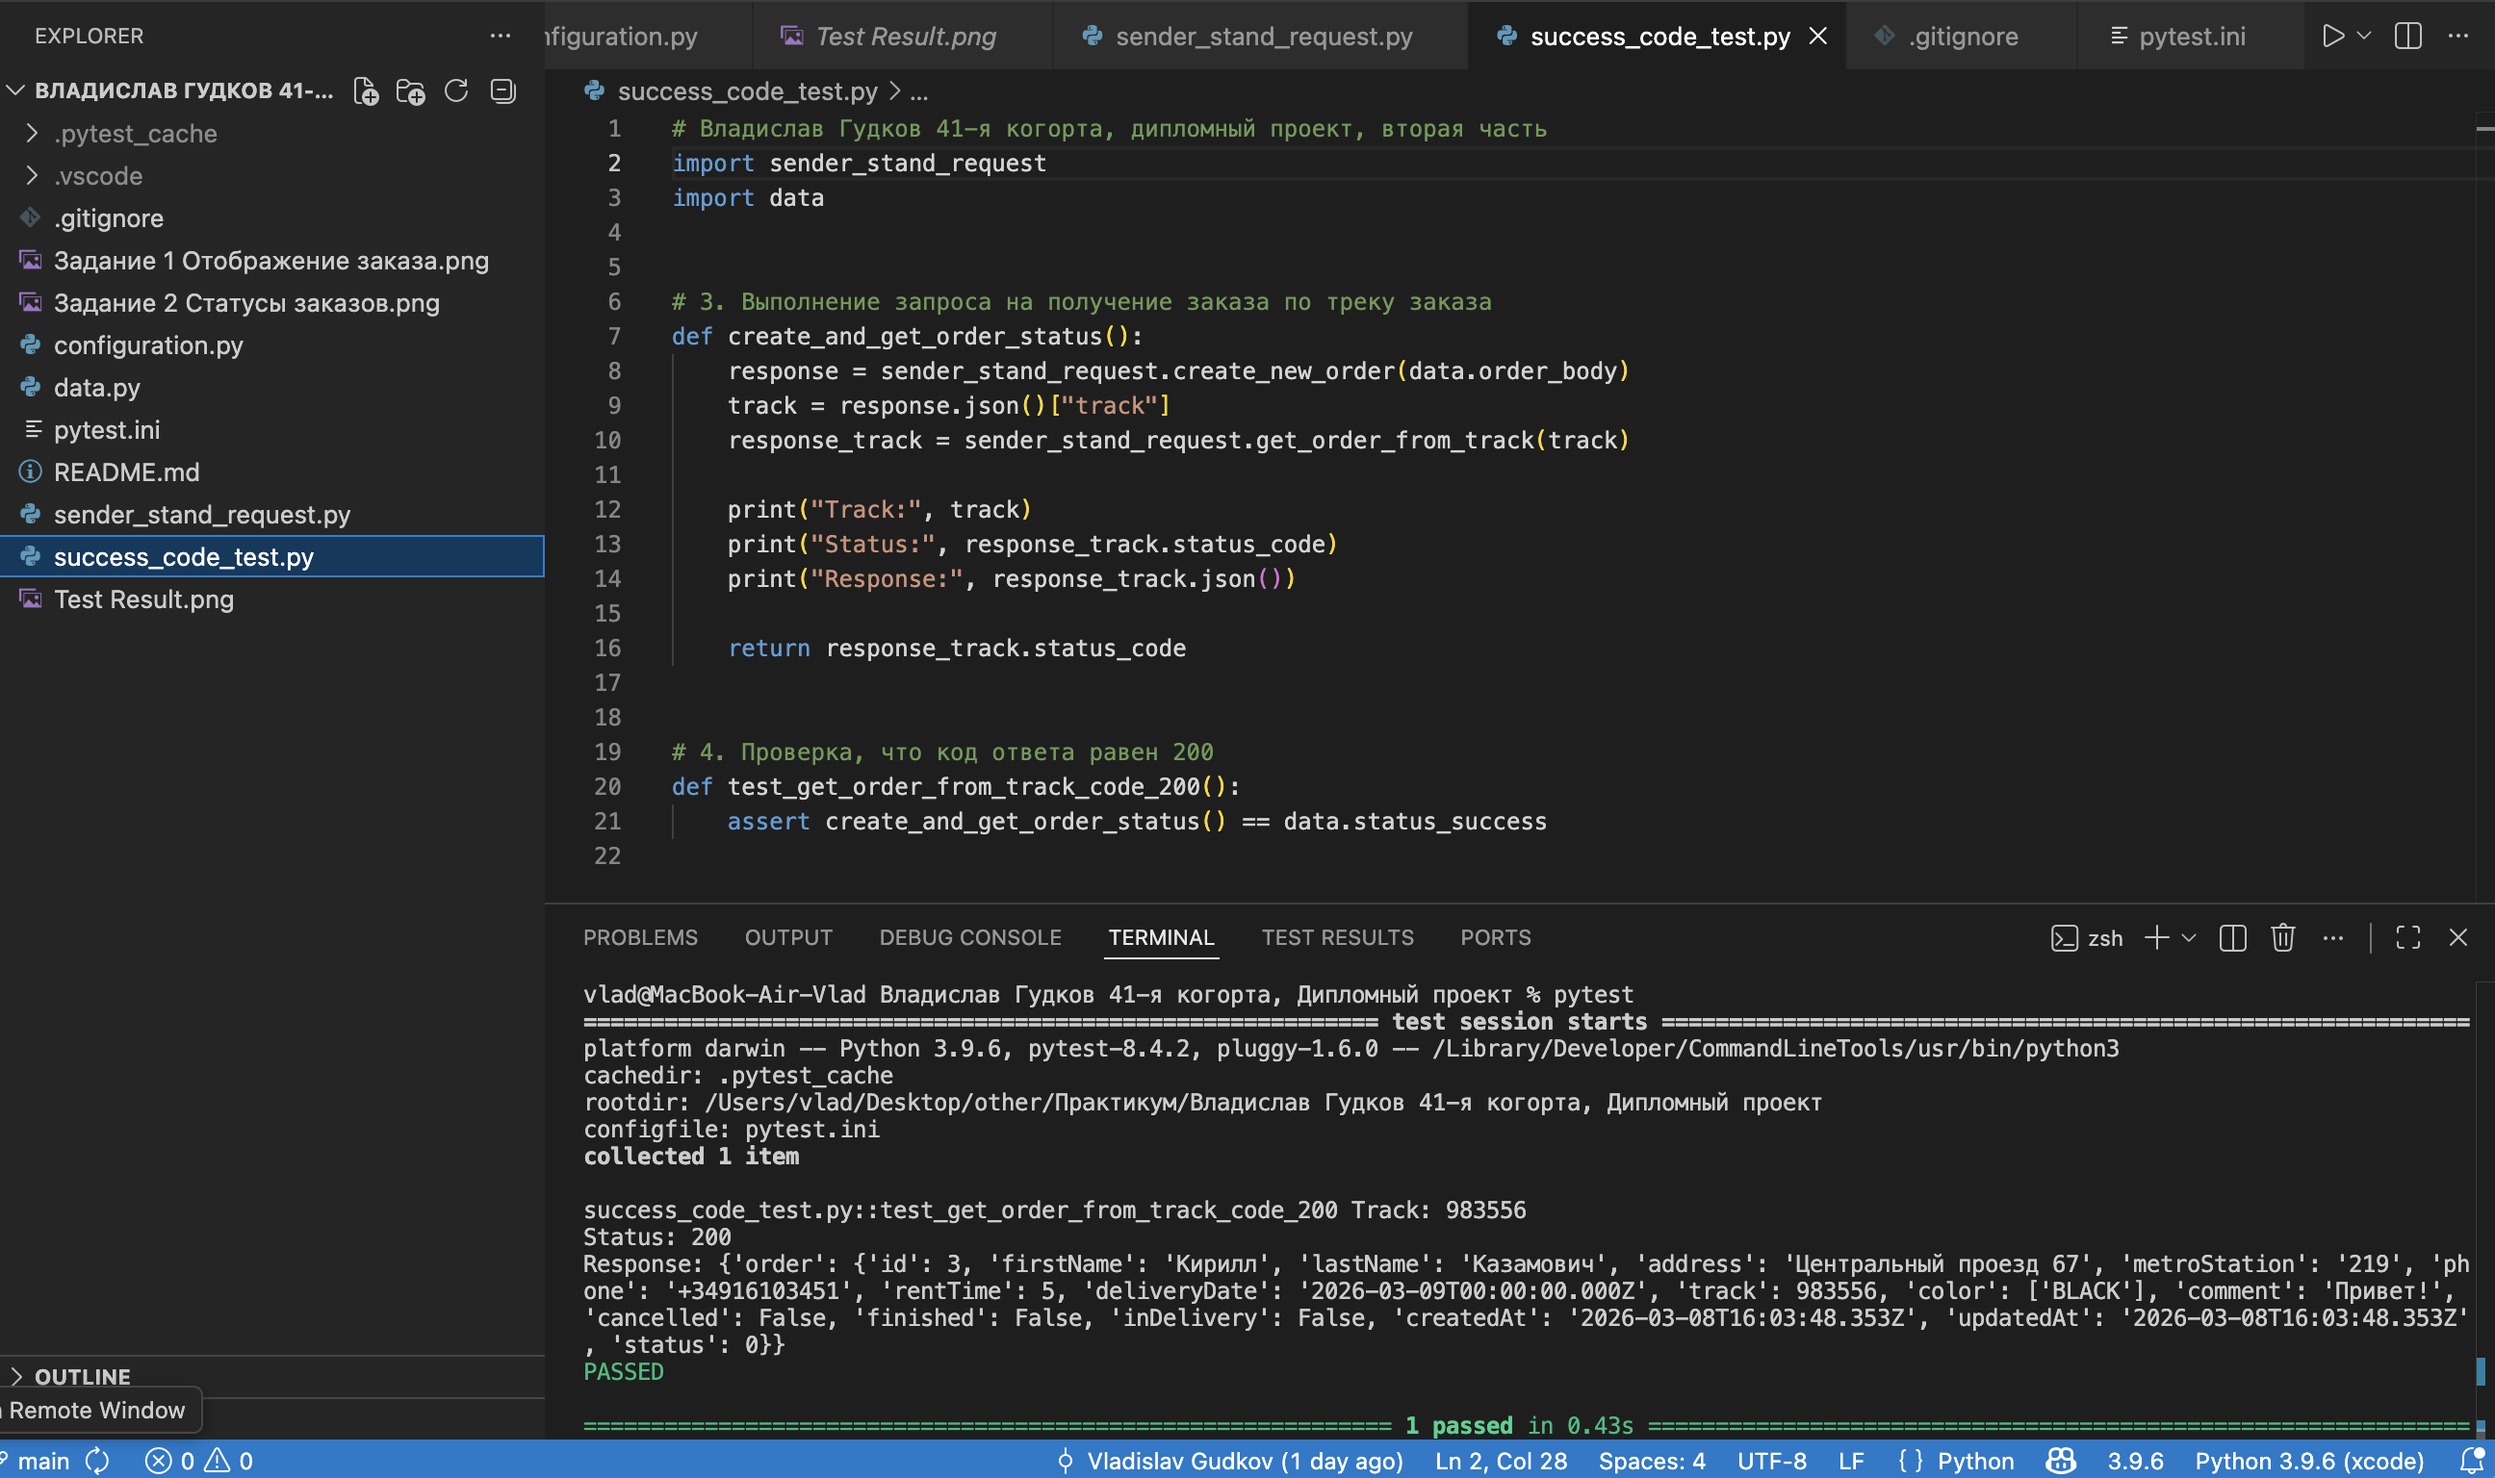
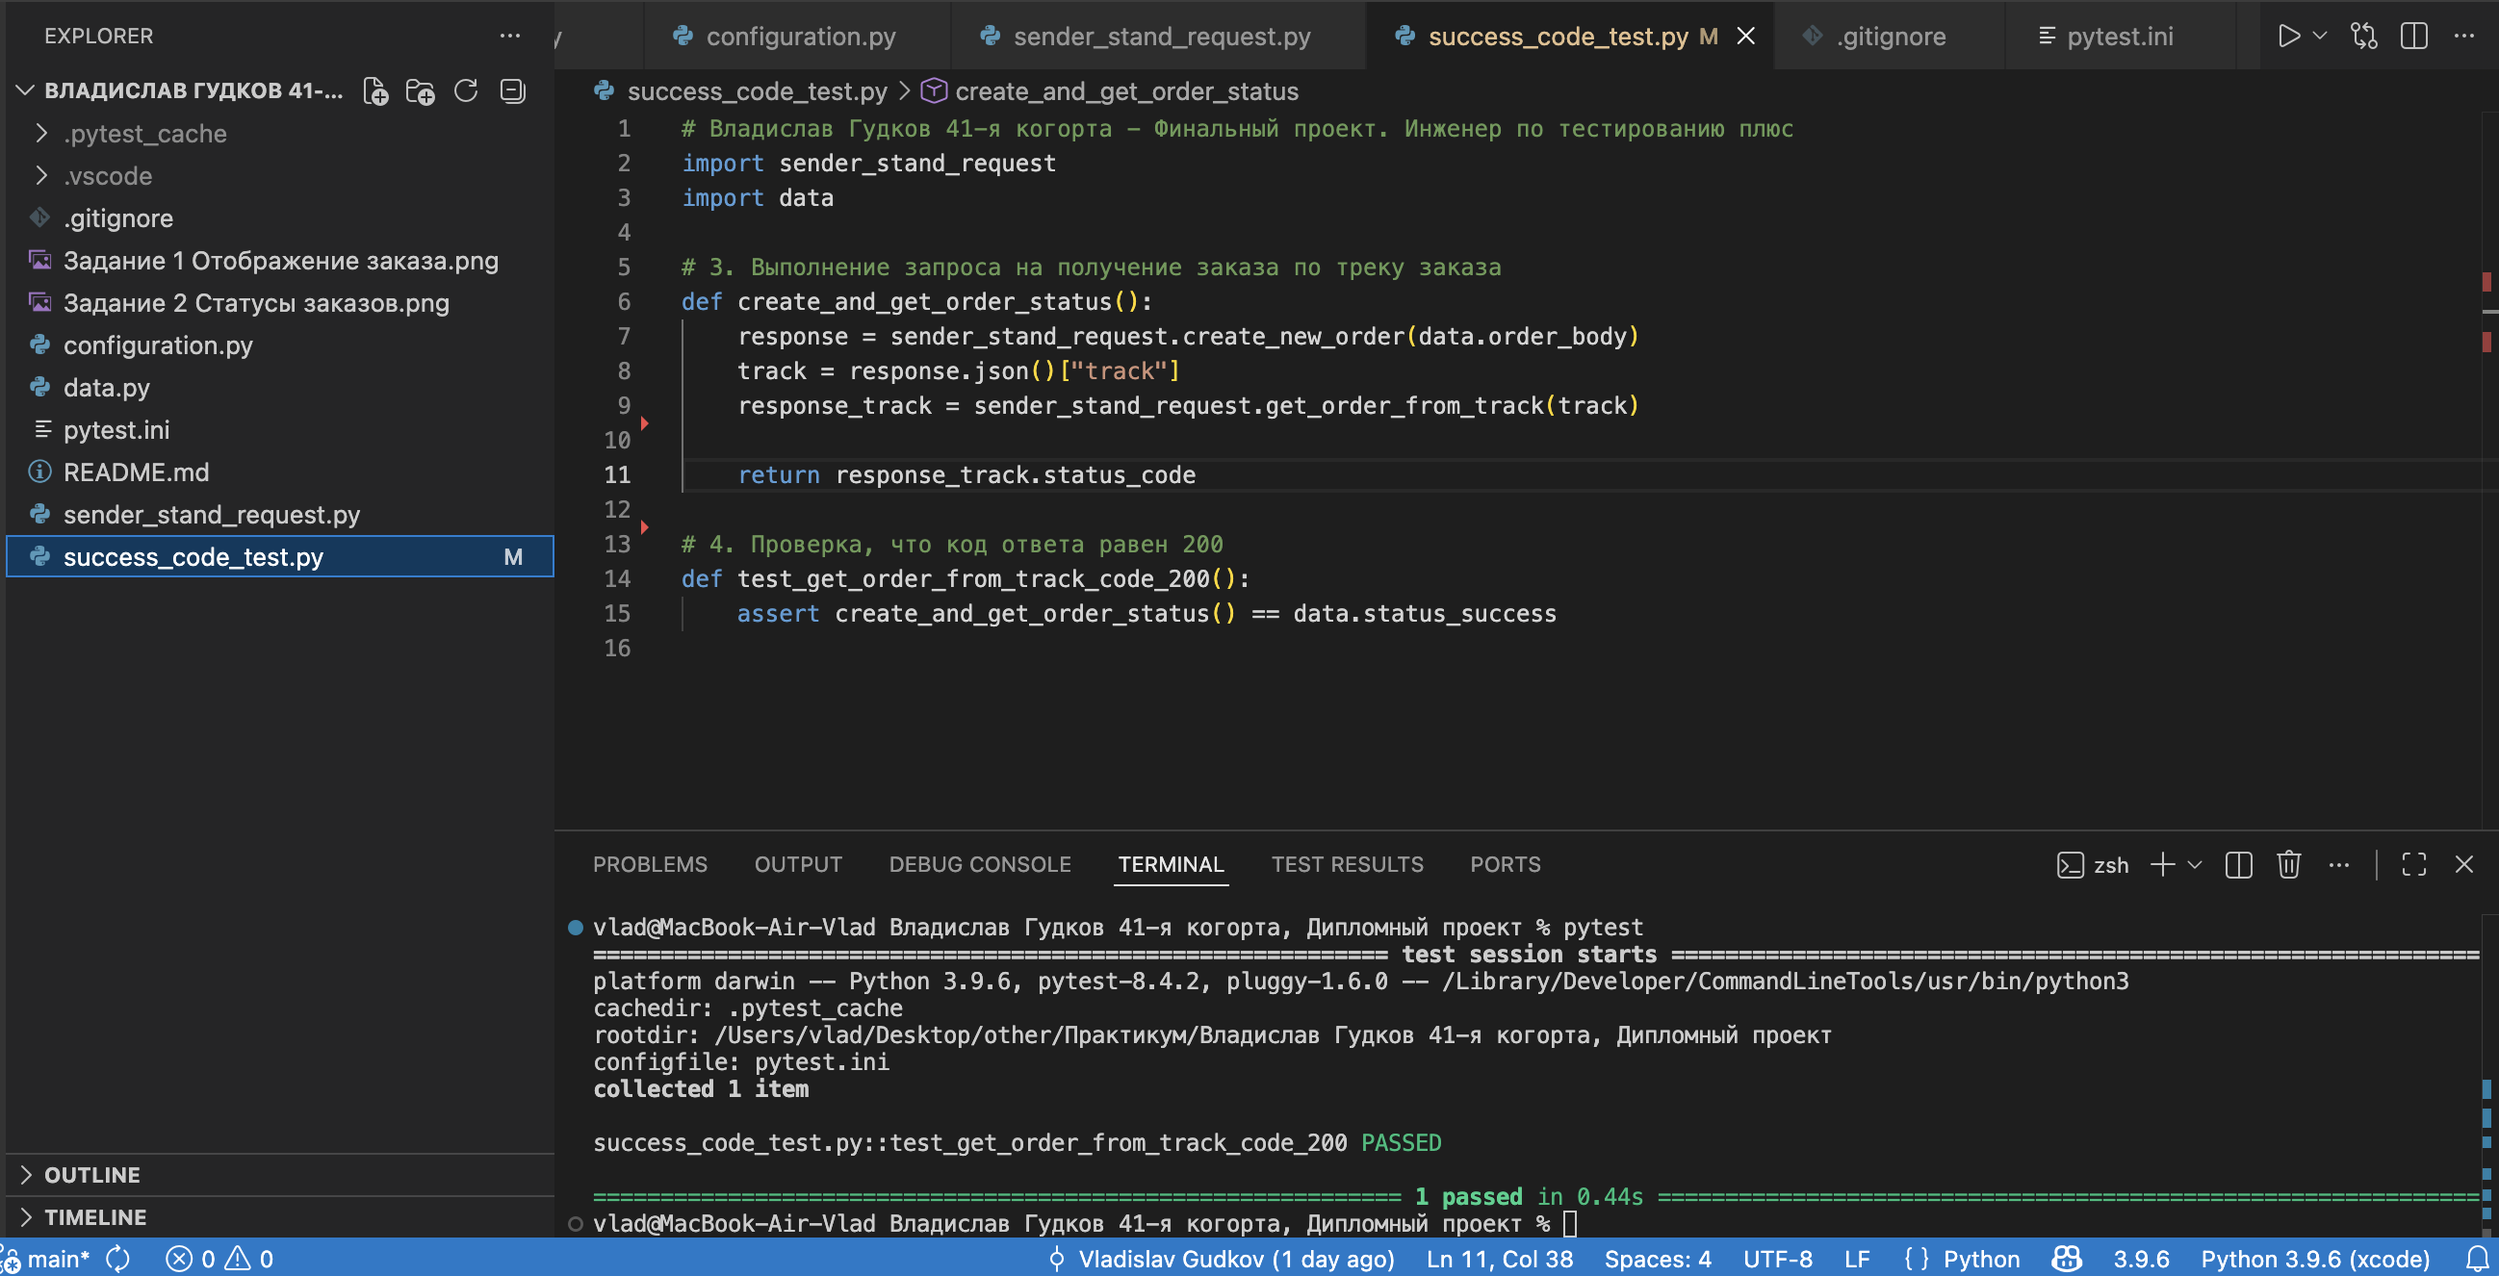
Final#3

diff --git a/success_code_test.py b/success_code_test.py
@@ -8,12 +8,7 @@ def create_and_get_order_status():
     track = response.json()["track"]
     response_track = sender_stand_request.get_order_from_track(track)
 
-    print("Track:", track)
-    print("Status:", response_track.status_code)
-    print("Response:", response_track.json())
-
     return response_track.status_code
-
 
 # 4. Проверка, что код ответа равен 200
 def test_get_order_from_track_code_200():
